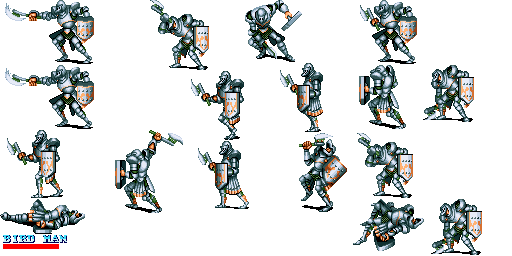
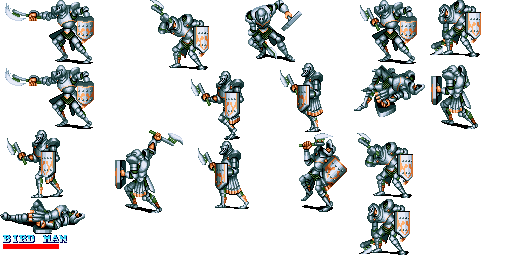
Fix AI enemy

Changed region(s): [[0.6875, 0.25, 0.9375, 0.5], [0.6875, 0.7812, 0.9688, 1.0], [0.8438, 0.0, 0.9375, 0.2188]]

diff --git a/Classes/BirdMan.cpp b/Classes/BirdMan.cpp
@@ -13,8 +13,9 @@ USING_NS_CC;
 std::map<AnimationType, AnimationInfo> BirdMan::s_mapAnimations =
 {
 	{AnimationType::WALKING, AnimationInfo(4, "BirdMan_Walk_%d.png", 1.0f / 12.0f, CC_REPEAT_FOREVER)},
-	{ AnimationType::ATTACKING, AnimationInfo(2, "BirdMan_Attack_%d.png", 1.0f / 4.0f, 1) },
-	{AnimationType::HITTED,AnimationInfo(1,"BirdMan_FallDown_%d.png", 1.0f / 4.0f,1)},
+	{ AnimationType::ATTACKING, AnimationInfo(1, "BirdMan_Attack_%d.png", 1.0f / 4.0f, 2) },
+	{ AnimationType::PREATTACKING, AnimationInfo(1, "BirdMan_preAttack_%d.png", 1.0f / 4.0f, 2) },
+	{AnimationType::HITTED,AnimationInfo(1,"BirdMan_FallDown_%d.png", 1.0f / 4.0f,2)},
 	{AnimationType::DEATH,AnimationInfo(3,"BirdMan_FallDown_%d.png",1.0f/4.0f,1)},
 	{AnimationType::FALLING,AnimationInfo(3,"BirdMan_FallDown_%d.png",1.0f / 4.0f,1)},
 	{AnimationType::GETUP,AnimationInfo(4,"BirdMan_Defeat_%d.png",1.0f / 4.0f,1)},
@@ -130,10 +131,7 @@ void BirdMan::PlayAnimation(AnimationType type)
 		animation->addSpriteFrame(SpriteFrameCache::getInstance()->getSpriteFrameByName(name));
 	}
 	animation->setDelayPerUnit(info.fps);
-	if (type == AnimationType::HITTED)
-	{
-		animation->addSpriteFrame(SpriteFrameCache::getInstance()->getSpriteFrameByName(name));
-	}
+
 	Animate* animate = Animate::create(animation);
 	auto seq = Sequence::create(Repeat::create(animate, info.loopTime), CallFunc::create([=]()
 	{
@@ -160,25 +158,26 @@ void BirdMan::SetState(_State state)
 
 		switch (state)
 		{
+		case STATE_PREATTACKING:
+			this->setDeathLess(false);
+			this->PlayAnimation(AnimationType::PREATTACKING);
+			break;
 		case STATE_ATTACKING:
-			
-			
-			this->runAction(Sequence::create(DelayTime::create(0.4f), CallFunc::create([=]()
+		{
+			auto hit = Hit::create();
+			this->addChild(hit);
+			hit->setScaleX(2.0f);
+			hit->setTag(TAG_ATTACK_ENEMY);
+			hit->setDamage(_damage);
+			hit->setcollisin(HIT_ENEMY_COLL);
+			hit->setcatory(HIT_ENEMY_CATE);
+			hit->setPosition(Vec2(-20, this->getContentSize().height * 0.5f - 10));
+			hit->runAction(Sequence::create(DelayTime::create(0.2f), CallFunc::create([=]()
 			{
-				auto hit = Hit::create();
-				this->addChild(hit);
-				hit->setScaleX(2.0f);
-				hit->setTag(TAG_ATTACK_ENEMY);
-				hit->setDamage(_damage);
-				hit->setcollisin(HIT_ENEMY_COLL);
-				hit->setcatory(HIT_ENEMY_CATE);
-				hit->setPosition(Vec2(-20, this->getContentSize().height * 0.5f - 10));
-				hit->runAction(Sequence::create(DelayTime::create(0.2f), CallFunc::create([=]()
-				{
-					hit->removeFromParent();
-				}), nullptr));
-			}), NULL));
-			this->stopActionByTag(TAG_ACTION_AI_CHASE_PLAYER);
+				hit->removeFromParent();
+			}), nullptr));
+		}
+		
 			this->PlayAnimation(AnimationType::ATTACKING);
 			break;
 		case STATE_JUMPING:
@@ -198,6 +197,14 @@ void BirdMan::SetState(_State state)
 
 			break;
 		case STATE_DEATH:
+			if (this->getScaleX() > 0)
+			{
+				_jumph = 100.f;
+			}
+			else
+			{
+				_jumph = -100.f;
+			}
 			this->setDeathLess(true);
 			/*this->PlayAnimation(AnimationType::DEATH);*/
 			this->_Arthurptr->addScore(_score);
@@ -205,7 +212,7 @@ void BirdMan::SetState(_State state)
 			spawn = cocos2d::Spawn::create(CallFunc::create([=]()
 			{
 				this->PlayAnimation(AnimationType::DEATH);
-			}), cocos2d::JumpBy::create(0.8f, Vec2(100, 0), 50, 1),cocos2d::Blink::create(1.2f,10), NULL);
+			}), cocos2d::JumpBy::create(0.8f, Vec2(_jumph, 0), 50, 1),cocos2d::Blink::create(1.2f,10), NULL);
 			//this->runAction(jum);
 			this->runAction(Sequence::create(spawn,DelayTime::create(0.5f),RemoveSelf::create(),NULL));
 			scene->dieenemy();
@@ -298,6 +305,10 @@ void BirdMan::onFinishAnimation()
 	{
 		this->SetState(STATE_STANDING);
 	}
+	else if (_state[1] == STATE_PREATTACKING)
+	{
+		this->SetState(STATE_ATTACKING);
+	}
 }
 
 void BirdMan::scheduleUpdateAI(float delta)
@@ -307,20 +318,28 @@ void BirdMan::scheduleUpdateAI(float delta)
 		
 		
 		if (_state[1] == STATE_FALLING || _state[1] == STATE_DEATH || _state[1] == STATE_HITTED
-			|| _state[1] == STATE_GETUP)
+			|| _state[1] == STATE_GETUP || _state[1] == STATE_ATTACKING|| _state[1] == STATE_PREATTACKING)
 		{
 
 		}
 		else
 		{
-
+			if (this->getPosition().x > _Arthurptr->getPosition().x)
+			{
+				this->setScaleX(2.0f);
+			}
+			else
+			{
+				this->setScaleX(-2.0f);
+			}
 		
 			auto distanceX = std::abs(this->getPosition().x - _Arthurptr->getPosition().x);
 			auto distanceY = std::abs(this->getPosition().y - _Arthurptr->getPosition().y);
 			if (distanceX < _EnemySprite->getContentSize().width * 0.5f + 100.0f && distanceY < 30)
 			{
 				//this->PlayAnimation(AnimationType::ATTACKING);
-				this->SetState(STATE_ATTACKING);
+				this->stopActionByTag(TAG_ACTION_AI_CHASE_PLAYER);
+				this->SetState(STATE_PREATTACKING);
 			}
 			else
 			{
@@ -338,14 +357,7 @@ void BirdMan::update(float delta)
 
 void BirdMan::chasePlayer()
 {
-	if (this->getPosition().x > _Arthurptr->getPosition().x)
-	{
-		this->setScaleX(2.0f);
-	}
-	else
-	{
-		this->setScaleX(-2.0f);
-	}
+	
 	auto targetPos = _Arthurptr->getPosition();
 	auto distance = targetPos - this->getPosition();
 	auto timeX = std::abs(distance.x / SPEED_X);

diff --git a/Classes/SwordMan.cpp b/Classes/SwordMan.cpp
@@ -13,8 +13,9 @@ USING_NS_CC;
 std::map<AnimationType, AnimationInfo> SwordMan::s_mapAnimations =
 {
 	{AnimationType::WALKING, AnimationInfo(4, "SwordMan_Walk_%d.png", 1.0f / 12.0f, CC_REPEAT_FOREVER)},
-	{ AnimationType::ATTACKING, AnimationInfo(3, "SwordMan_Attack_%d.png", 1.0f / 4.0f, 1) },
-	{AnimationType::HITTED,AnimationInfo(1,"SwordMan_FallDown_%d.png", 1.0f / 4.0f,1)},
+	{ AnimationType::ATTACKING, AnimationInfo(1, "SwordMan_Attack_%d.png", 1.0f / 4.0f, 2) },
+	{ AnimationType::PREATTACKING, AnimationInfo(2, "SwordMan_preAttack_%d.png", 1.0f / 8.0f, 1) },
+	{AnimationType::HITTED,AnimationInfo(1,"SwordMan_FallDown_%d.png", 1.0f / 4.0f,2)},
 	{AnimationType::DEATH,AnimationInfo(3,"SwordMan_FallDown_%d.png",1.0f / 4.0f,1)},
 	{AnimationType::FALLING,AnimationInfo(3,"SwordMan_FallDown_%d.png",1.0f / 4.0f,1)},
 	{AnimationType::GETUP,AnimationInfo(2,"SwordMan_GetUp_%d.png",1.0f / 4.0f,1)},
@@ -131,10 +132,7 @@ void SwordMan::PlayAnimation(AnimationType type)
 		animation->addSpriteFrame(SpriteFrameCache::getInstance()->getSpriteFrameByName(name));
 	}
 	animation->setDelayPerUnit(info.fps);
-	if (type == AnimationType::HITTED)
-	{
-		animation->addSpriteFrame(SpriteFrameCache::getInstance()->getSpriteFrameByName(name));
-	}
+	
 	Animate* animate = Animate::create(animation);
 	auto seq = Sequence::create(Repeat::create(animate, info.loopTime), CallFunc::create([=]()
 	{
@@ -160,24 +158,28 @@ void SwordMan::SetState(_State state)
 
 		switch (state)
 		{
+		case STATE_PREATTACKING:
+			this->setDeathLess(false);
+			this->PlayAnimation(AnimationType::PREATTACKING);
+			break;
 		case STATE_ATTACKING:
 			
-			this->runAction(Sequence::create(DelayTime::create(0.4f), CallFunc::create([=]()
+			
+		{
+			auto hit = Hit::create();
+			this->addChild(hit);
+			hit->setScaleX(2.0f);
+			hit->setTag(TAG_ATTACK_ENEMY);
+			hit->setDamage(_damage);
+			hit->setcollisin(HIT_ENEMY_COLL);
+			hit->setcatory(HIT_ENEMY_CATE);
+			hit->setPosition(Vec2(-25, this->getContentSize().height * 0.5f - 10));
+			hit->runAction(Sequence::create(DelayTime::create(0.2f), CallFunc::create([=]()
 			{
-				auto hit = Hit::create();
-				this->addChild(hit);
-				hit->setScaleX(2.0f);
-				hit->setTag(TAG_ATTACK_ENEMY);
-				hit->setDamage(_damage);
-				hit->setcollisin(HIT_ENEMY_COLL);
-				hit->setcatory(HIT_ENEMY_CATE);
-				hit->setPosition(Vec2(-25, this->getContentSize().height * 0.5f -10));
-				hit->runAction(Sequence::create(DelayTime::create(0.2f), CallFunc::create([=]()
-				{
-					hit->removeFromParent();
-				}), nullptr));
-			}), NULL));
-			this->stopActionByTag(TAG_ACTION_AI_CHASE_PLAYER);
+				hit->removeFromParent();
+			}), nullptr));
+		}
+			
 			this->PlayAnimation(AnimationType::ATTACKING);
 			/*this->runAction(Sequence::create(DelayTime::create(0.4f), CallFunc::create([=]()
 			{
@@ -201,6 +203,14 @@ void SwordMan::SetState(_State state)
 
 			break;
 		case STATE_DEATH:
+			if (this->getScaleX() > 0)
+			{
+				_jumph = 100.f;
+			}
+			else
+			{
+				_jumph = -100.f;
+			}
 			this->setDeathLess(true);
 			/*this->PlayAnimation(AnimationType::DEATH);*/
 			this->_Arthurptr->addScore(_score);
@@ -208,12 +218,13 @@ void SwordMan::SetState(_State state)
 			spawn = cocos2d::Spawn::create(CallFunc::create([=]()
 			{
 				this->PlayAnimation(AnimationType::DEATH);
-			}), cocos2d::JumpBy::create(0.8f, Vec2(100, 0), 50, 1),cocos2d::Blink::create(1.2f,10), NULL);
+			}), cocos2d::JumpBy::create(0.8f, Vec2(_jumph, 0), 50, 1),cocos2d::Blink::create(1.2f,10), NULL);
 			//this->runAction(jum);
 			this->runAction(Sequence::create(spawn,DelayTime::create(0.5f),RemoveSelf::create(),NULL));
 			scene->dieenemy();
 			break;
 		case STATE_FALLING:
+
 			this->setDeathLess(true);
 			if (this->getScaleX() > 0)
 			{
@@ -302,6 +313,10 @@ void SwordMan::onFinishAnimation()
 	{
 		this->SetState(STATE_STANDING);
 	}
+	else if (_state[1] == STATE_PREATTACKING)
+	{
+		this->SetState(STATE_ATTACKING);
+	}
 }
 
 void SwordMan::scheduleUpdateAI(float delta)
@@ -309,29 +324,28 @@ void SwordMan::scheduleUpdateAI(float delta)
 	if (_Arthurptr != nullptr)
 	{
 		
-		if (this->getPosition().x > _Arthurptr->getPosition().x)
-		{
-			this->setScaleX(2.0f);
-		}
-		else
-		{
-			this->setScaleX(-2.0f);
-		}
 		if (_state[1] == STATE_FALLING || _state[1] == STATE_DEATH || _state[1] == STATE_HITTED
-			|| _state[1] == STATE_GETUP)
+			|| _state[1] == STATE_GETUP || _state[1] == STATE_ATTACKING || _state[1] == STATE_PREATTACKING)
 		{
 
 		}
 		else
 		{
-
-		
+			if (this->getPosition().x > _Arthurptr->getPosition().x)
+			{
+				this->setScaleX(2.0f);
+			}
+			else
+			{
+				this->setScaleX(-2.0f);
+			}
 			auto distanceX = std::abs(this->getPosition().x - _Arthurptr->getPosition().x);
 			auto distanceY = std::abs(this->getPosition().y - _Arthurptr->getPosition().y);
 			if (distanceX < _EnemySprite->getContentSize().width * 0.5f + 100.0f && distanceY < 30)
 			{
 				//this->PlayAnimation(AnimationType::ATTACKING);
-				this->SetState(STATE_ATTACKING);
+				this->stopActionByTag(TAG_ACTION_AI_CHASE_PLAYER);
+				this->SetState(STATE_PREATTACKING);
 			}
 			else
 			{

diff --git a/Classes/GameScene_1.cpp b/Classes/GameScene_1.cpp
@@ -212,11 +212,11 @@ bool GameScene_1::init()
 
 
 	//FanMan
-	_FanMan = FanMan::create();
+	/*_FanMan = FanMan::create();
 	_FanMan->setPosition(Vec2(visibleSize.width*POSITION_BEGIN_WIDTH+200, visibleSize.height*POSITION_BEGIN_HEIGHT));
 	_FanMan->enalbeAI(_Arthur);
 	_FanMan->setscene(this);
-	this->addChild(_FanMan,1);
+	this->addChild(_FanMan,1);*/
 
 	_Boss = Garibaldi::create();
 	_Boss->setPosition(Vec2(7400, 100));
@@ -228,11 +228,13 @@ bool GameScene_1::init()
 	/*_BirdMan = BirdMan::create();
 	_BirdMan->setPosition(Vec2(visibleSize.width*POSITION_BEGIN_WIDTH - 100, visibleSize.height*POSITION_BEGIN_HEIGHT));
 	_BirdMan->enalbeAI(_Arthur);
+	_BirdMan->setscene(this);
 	this->addChild(_BirdMan, 1);*/
-	/*auto sw = SwordMan::create();
+	auto sw = SwordMan::create();
 	sw->setPosition(Vec2(visibleSize.width*POSITION_BEGIN_WIDTH - 100, visibleSize.height*POSITION_BEGIN_HEIGHT));
 	sw->enalbeAI(_Arthur);
-	this->addChild(sw, 1); */
+	sw->setscene(this);
+	this->addChild(sw, 1); 
 	// dunglq3
 	// IMPORTANT: The scheduleUpdate must be called right before this->addChild(SKeyboard::get()),
 	// or the SKeyboard::getEvents always return a vector of nothing because of SKeyboard::update

diff --git a/Classes/FanMan.cpp b/Classes/FanMan.cpp
@@ -214,6 +214,14 @@ void FanMan::SetState(_State state)
 
 			break;
 		case STATE_DEATH:
+			if (this->getScaleX() > 0)
+			{
+				_jumph = 100.f;
+			}
+			else
+			{
+				_jumph = -100.f;
+			}
 			this->setDeathLess(true);
 			/*this->PlayAnimation(AnimationType::DEATH);*/
 			this->_Arthurptr->addScore(_score);
@@ -221,7 +229,7 @@ void FanMan::SetState(_State state)
 			spawn = cocos2d::Spawn::create(CallFunc::create([=]()
 			{
 				this->PlayAnimation(AnimationType::DEATH);
-			}), cocos2d::JumpBy::create(0.8f, Vec2(100, 0), 50, 1), cocos2d::Blink::create(1.2f, 10), NULL);
+			}), cocos2d::JumpBy::create(0.8f, Vec2(_jumph, 0), 50, 1), cocos2d::Blink::create(1.2f, 10), NULL);
 			//this->runAction(jum);
 			this->runAction(Sequence::create(spawn, DelayTime::create(0.5f), RemoveSelf::create(), NULL));
 			scene->dieenemy();
@@ -329,7 +337,7 @@ void FanMan::scheduleUpdateAI(float delta)
 	{
 		
 		if (_state[1] == STATE_FALLING || _state[1] == STATE_DEATH || _state[1] == STATE_HITTED
-			|| _state[1] == STATE_GETUP || _state[1] == STATE_ATTACKING)
+			|| _state[1] == STATE_GETUP || _state[1] == STATE_ATTACKING ||_state[1] == STATE_PREATTACKING)
 		{
 
 		}
